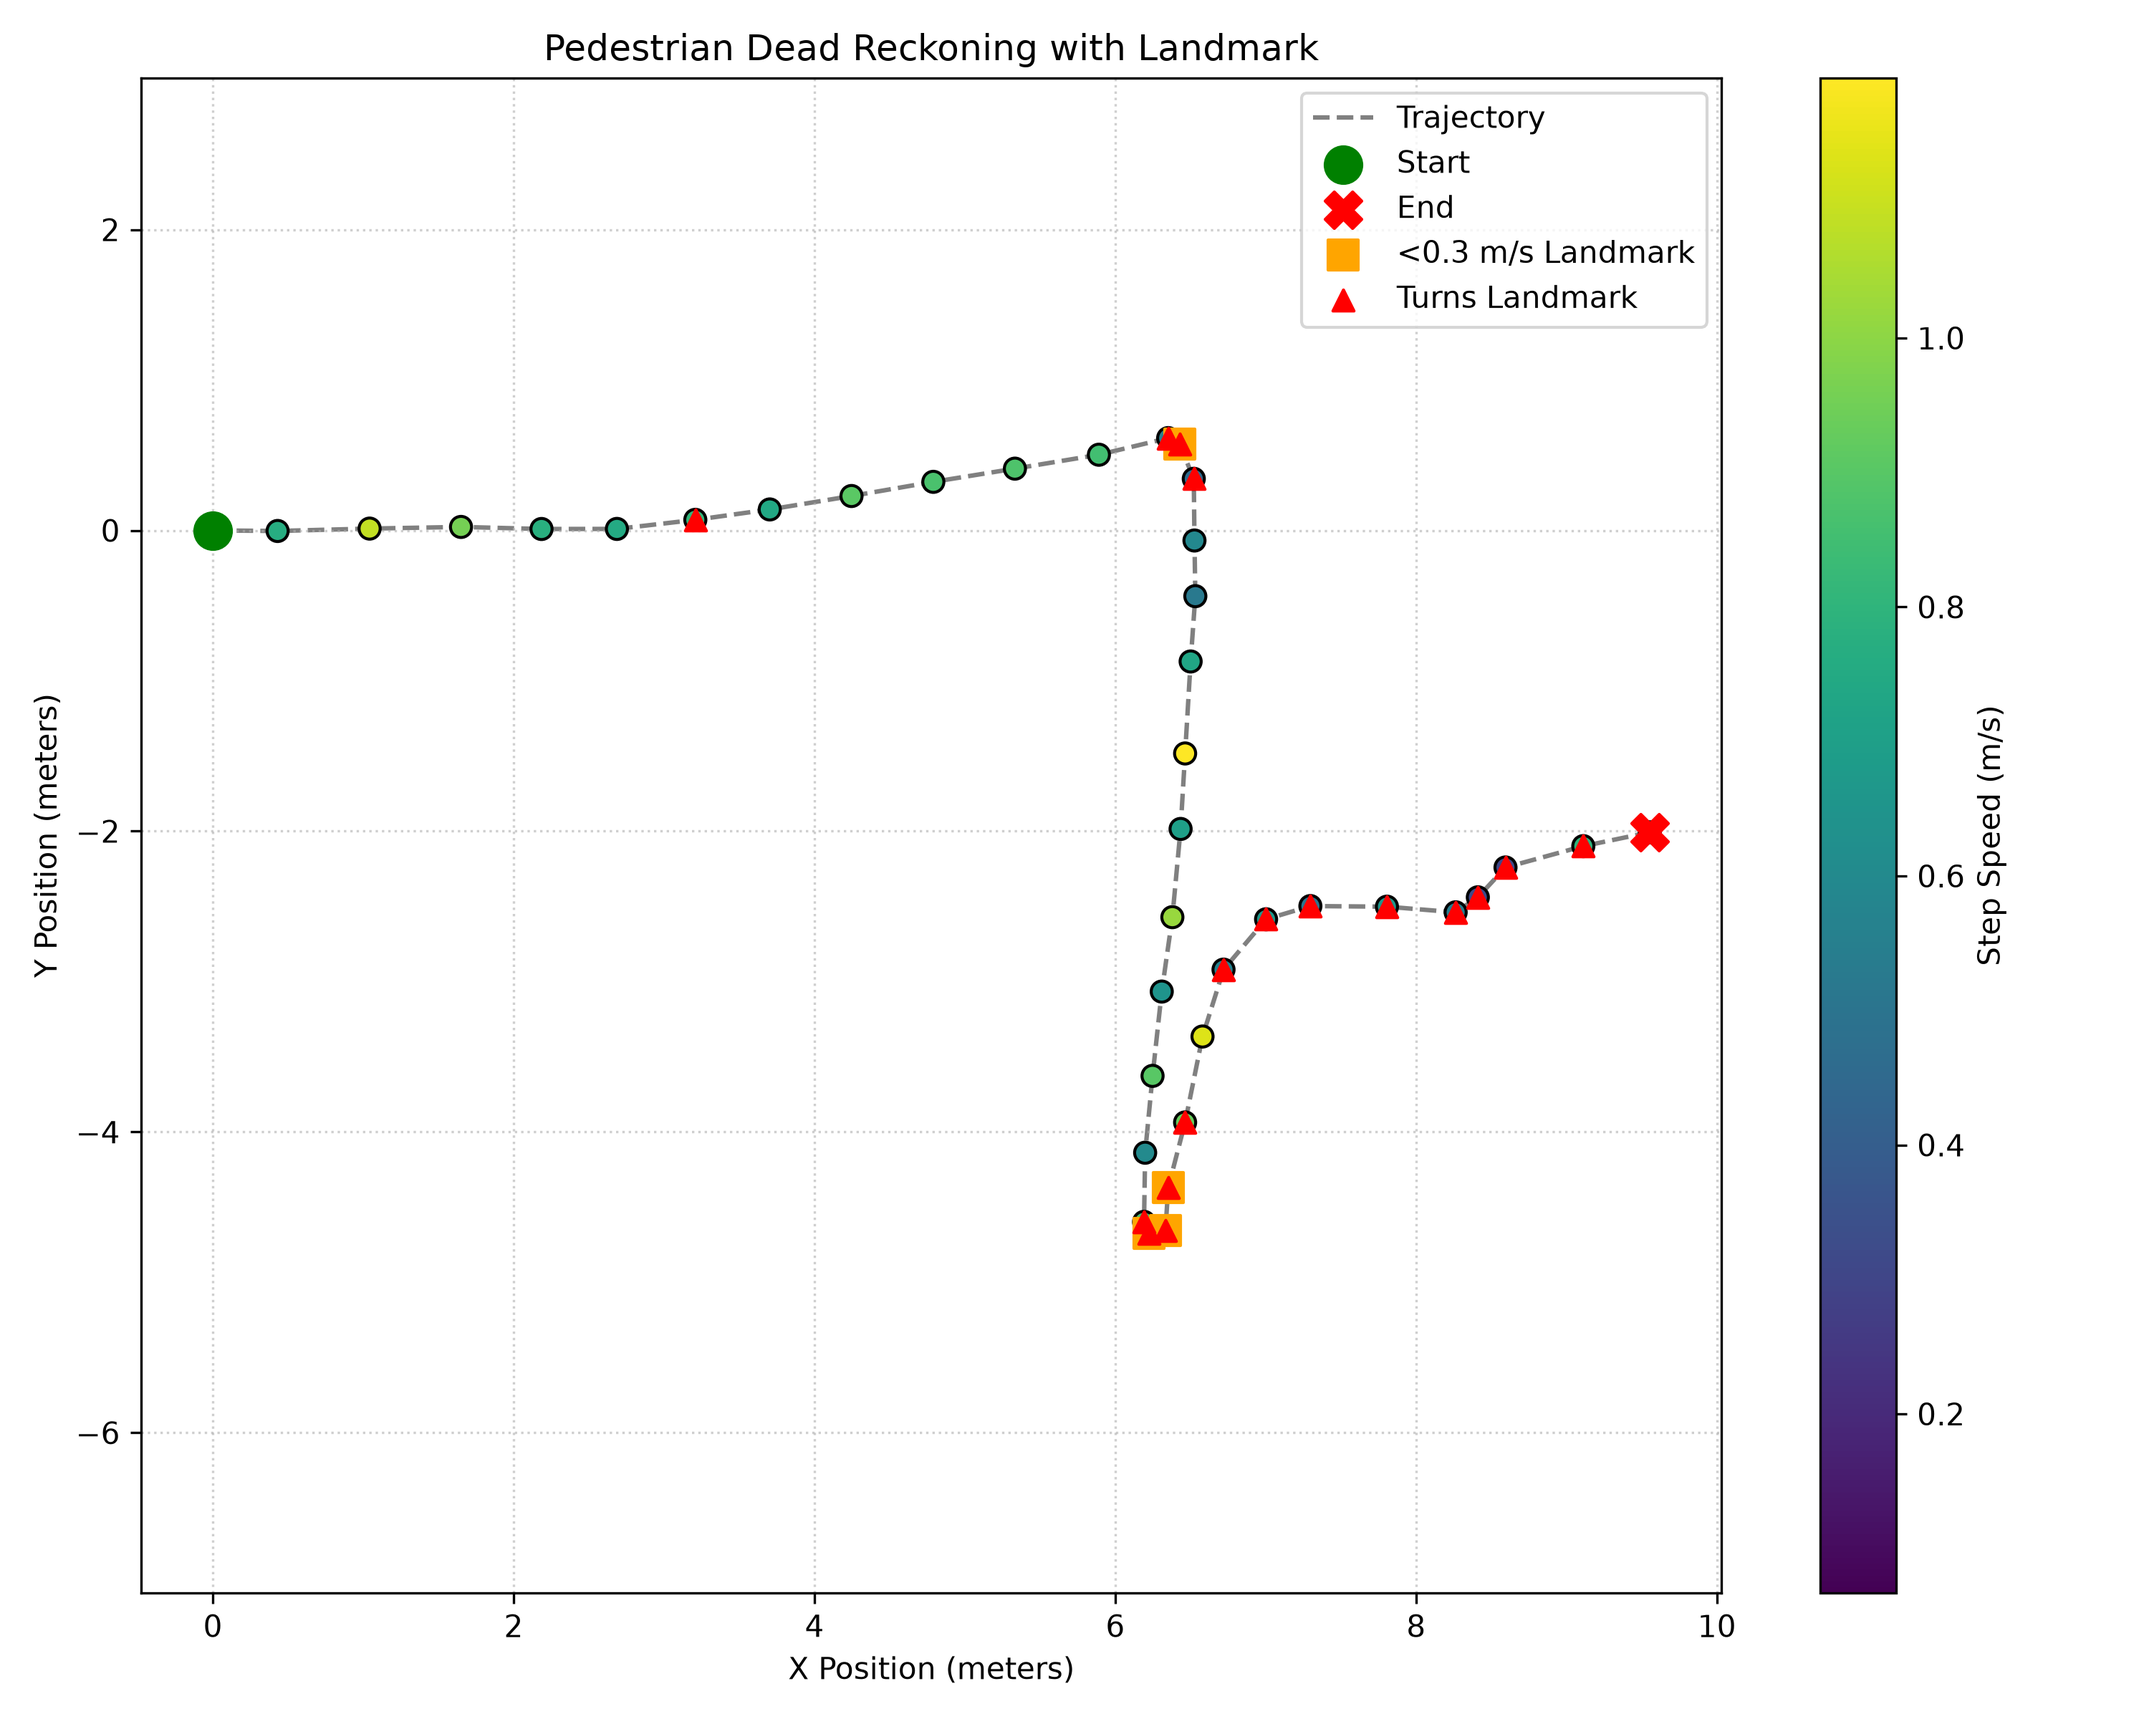
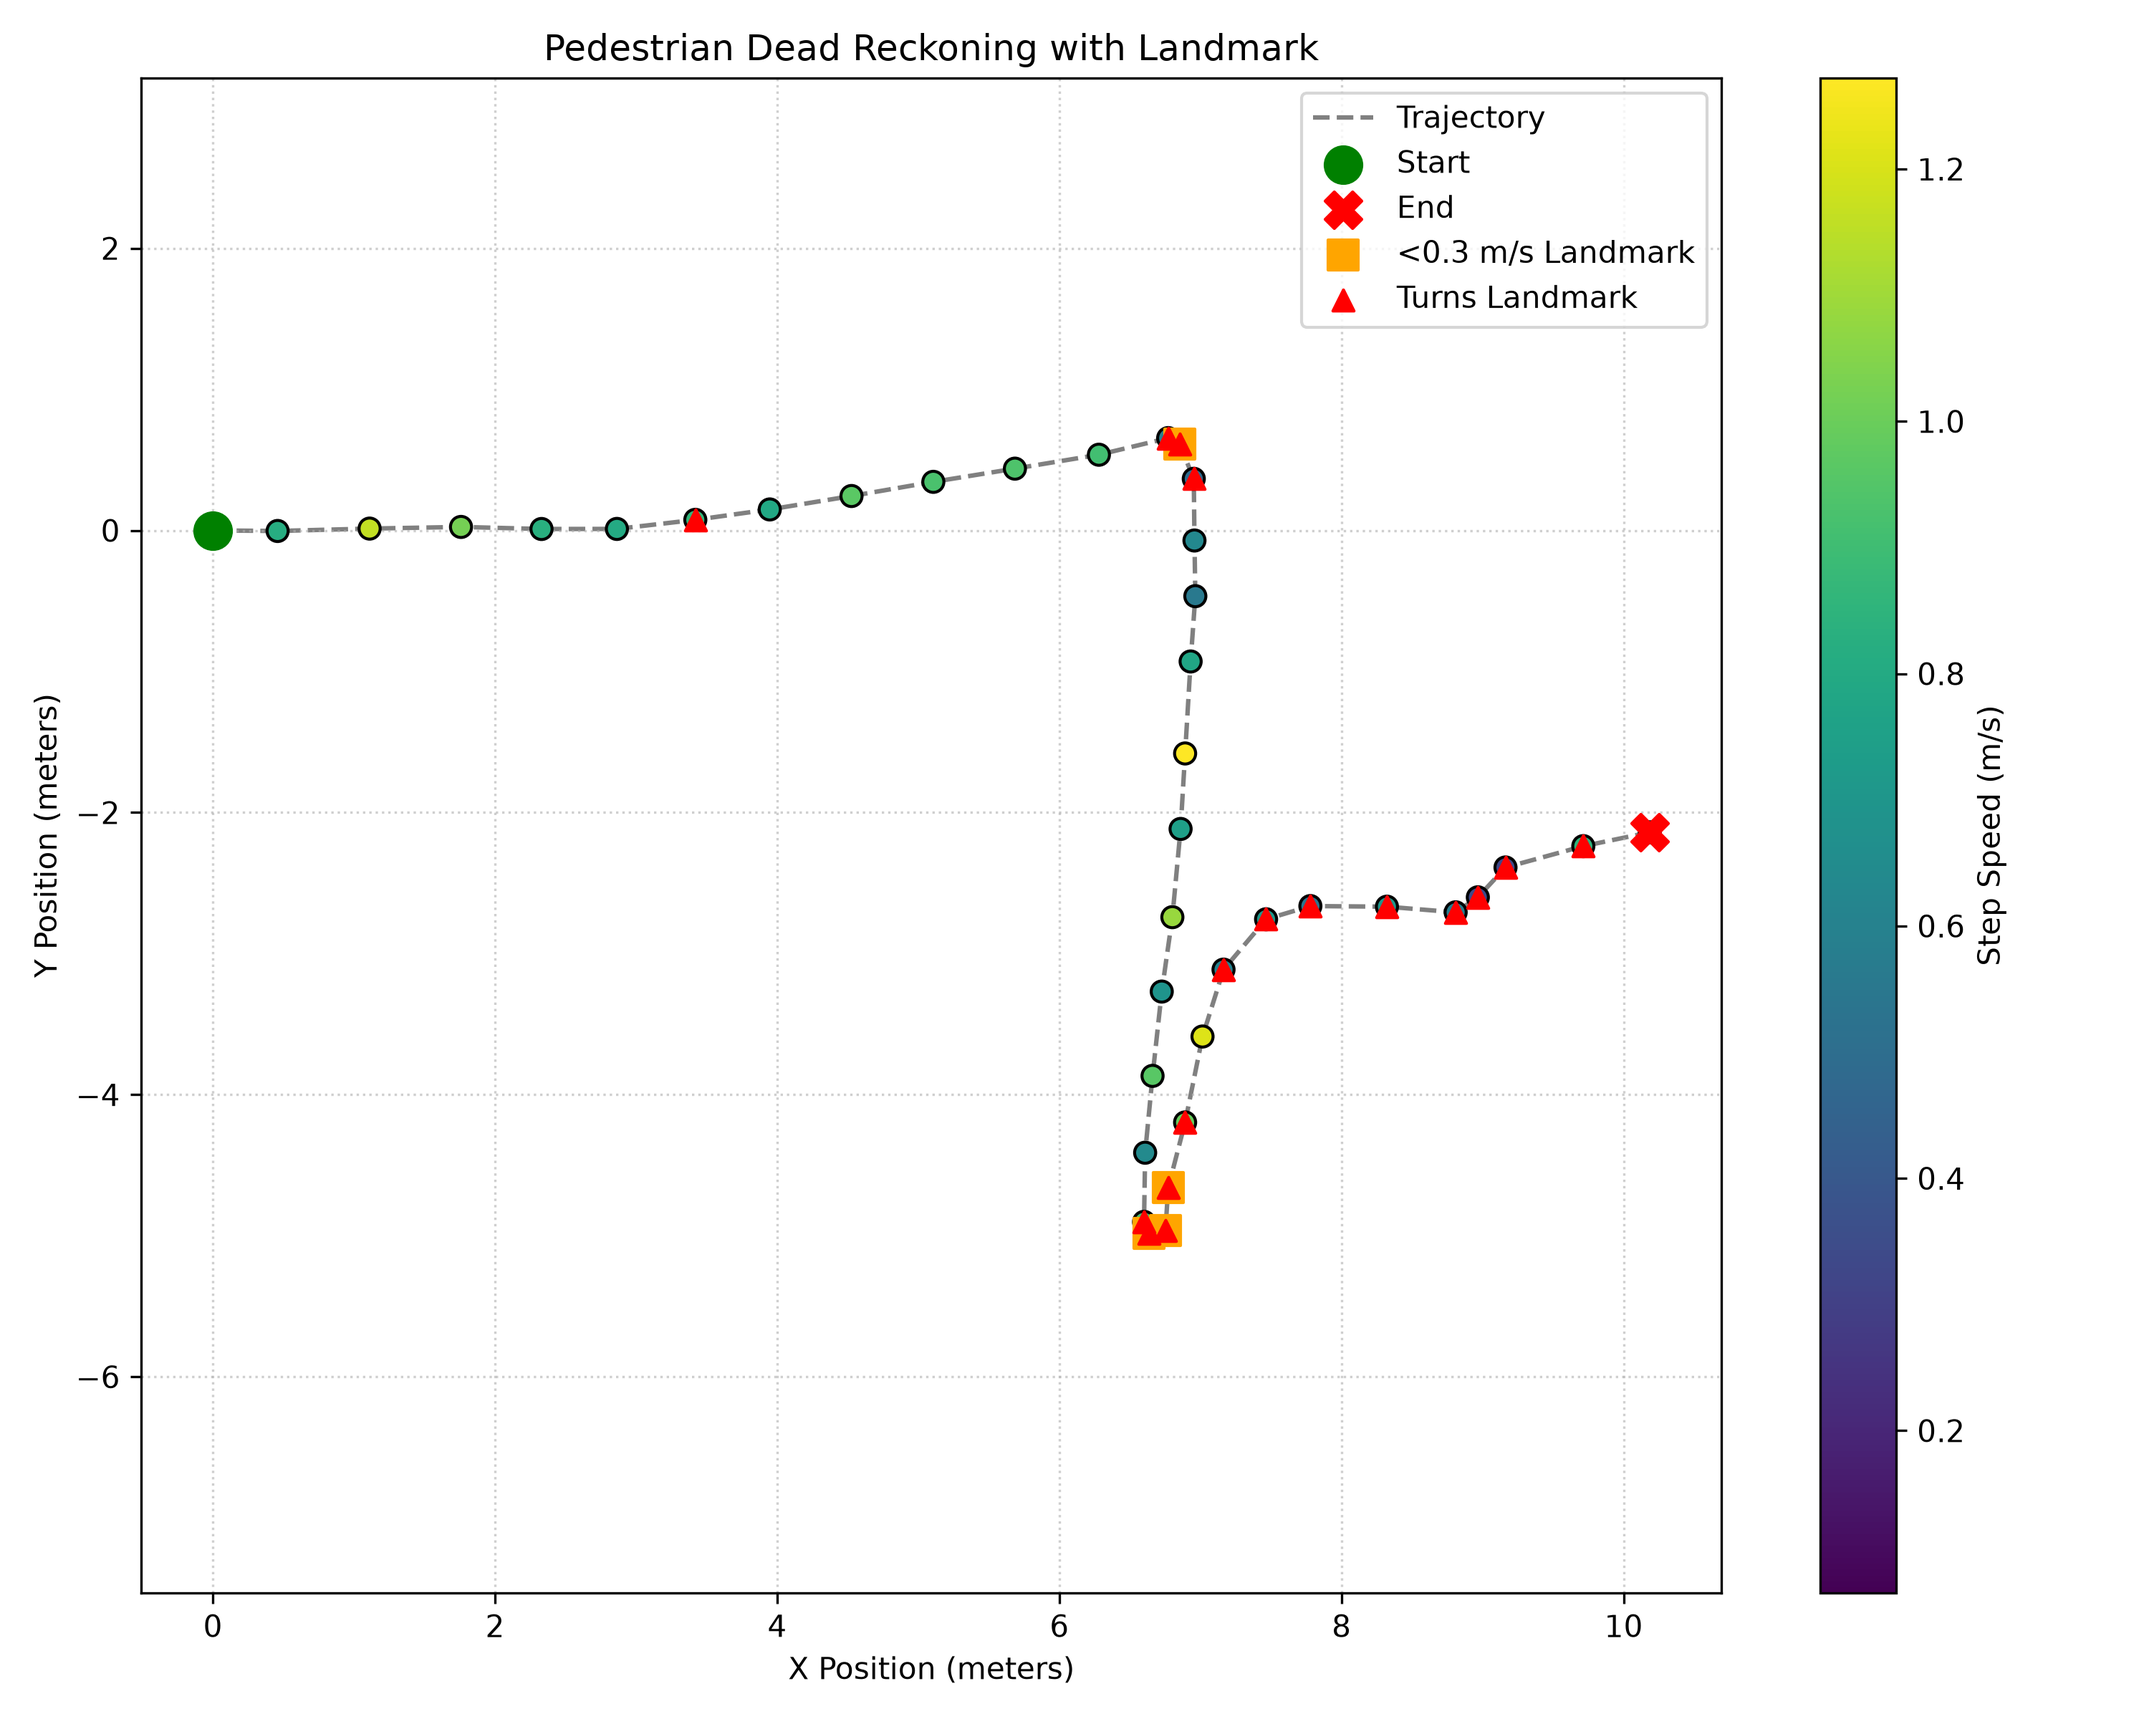
Use average height as K

diff --git a/Python/Indoor_Walking_Map.py b/Python/Indoor_Walking_Map.py
@@ -401,8 +401,11 @@ if __name__ == '__main__':
     # Config
     gyro_threshold = 0.12 # rad/s threshold
 
-    # K_weinberg = 0.4442  # Weinberg constant
-    K_cadence_adaptive = 0.4856  # Cadence-adaptive Weinberg constant
+    # K_weinberg = 0.4442  # Weinberg constant (requires calibration)
+    
+    # Cadence-adaptive Weinberg constant (K = 0.31 * height [m] if not calibrated)
+    # Average height of 1.67 m for adults in India, K = 0.31 * 1.67 = 0.5177
+    K_cadence_adaptive = 0.5177
     x_pos, y_pos = [0.0], [0.0]
     use_turn_attenuation = True
     turn_threshold = 0.6 # rad/s
